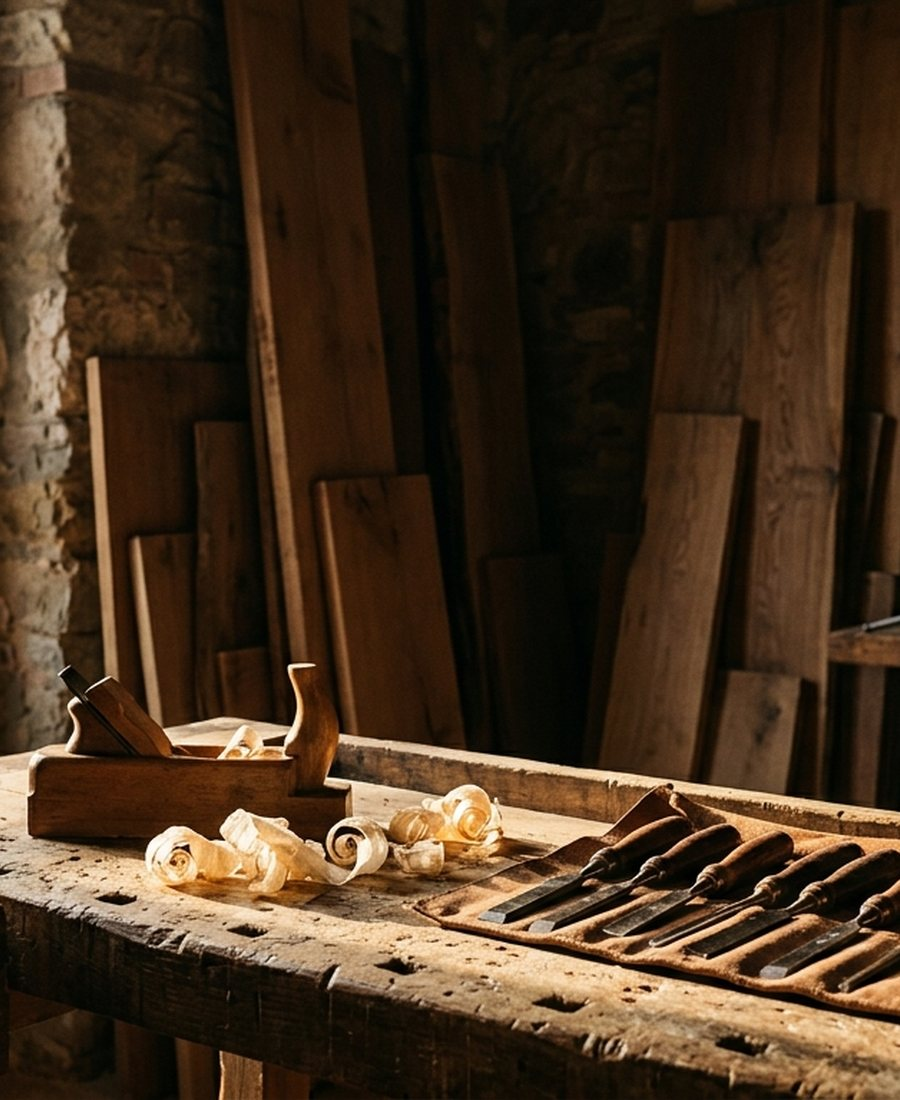
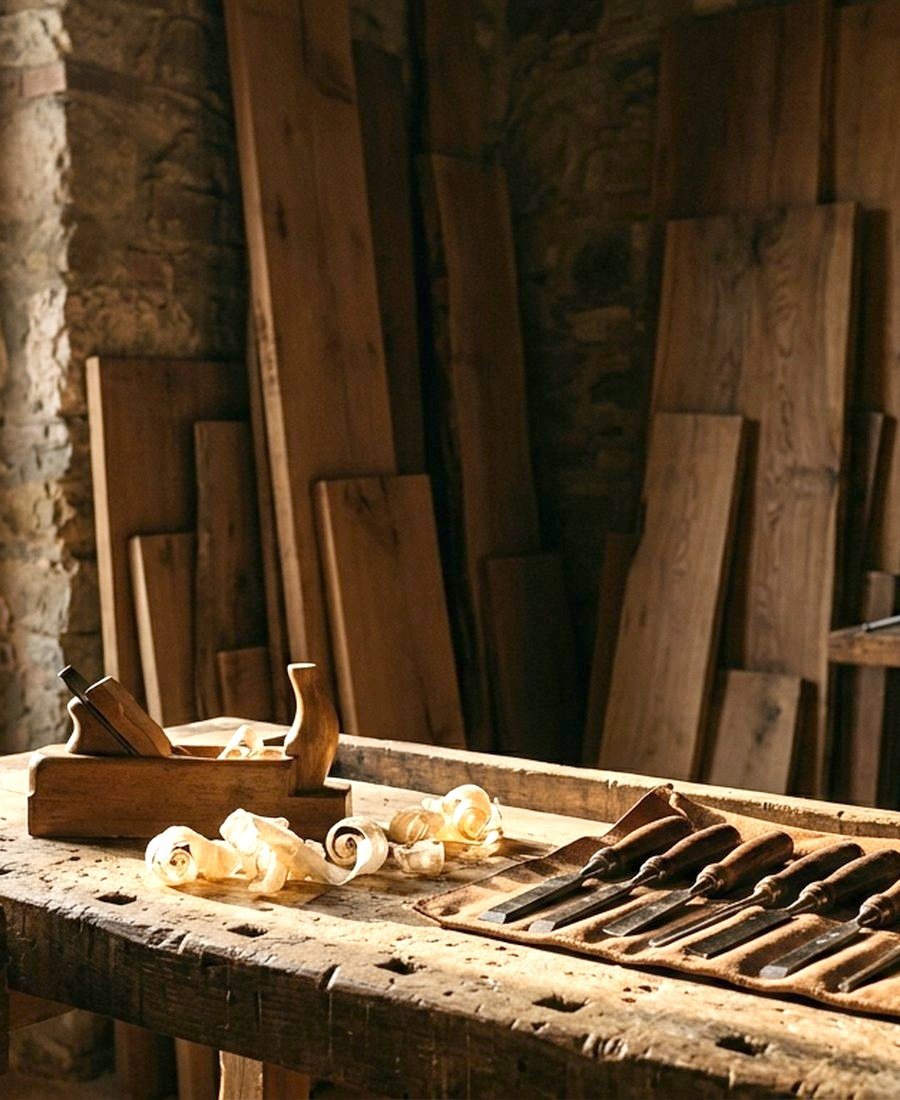
Improve mobile hero brightness, Chi Siamo readability, navfooterpill, and Home slider

diff --git a/src/app/page.tsx b/src/app/page.tsx
@@ -52,9 +52,9 @@ export default function Home() {
 
   const featuredProjects: FeaturedProjectSlide[] = [
     {
-      imageUrl: "/images/cucina.jpg",
-      description: "Arredi su Misura",
-      fitMode: "mat",
+      imageUrl: "/gallery/arredo_mave.7.jpg",
+      description: "Tavolo in Rovere su Misura",
+      fitMode: "cover",
     },
     {
       imageUrl: "/images/bagno.jpeg",
@@ -77,9 +77,9 @@ export default function Home() {
       fitMode: "cover",
     },
     {
-      imageUrl: "/images/recenti.jpg",
-      description: "Mobile Angolare Design",
-      fitMode: "mat",
+      imageUrl: "/gallery/arredo_mave.13.jpg",
+      description: "Interni Nautici su Misura",
+      fitMode: "cover",
     },
   ];
 
@@ -137,7 +137,7 @@ export default function Home() {
     <div className="flex flex-col">
       {/* HERO SECTION BOXED */}
       <div className="max-w-6xl mx-auto w-full px-3 sm:px-5 pt-2">
-        <section className="relative w-full h-[54vh] sm:h-[58vh] md:h-[60vh] min-h-[410px] max-h-[540px] overflow-hidden bg-zinc-950 rounded-[2rem] md:rounded-[2.5rem] shadow-2xl flex items-center justify-center">
+        <section className="relative w-full h-[52vh] sm:h-[58vh] md:h-[60vh] min-h-[390px] max-h-[540px] overflow-hidden bg-zinc-950 rounded-[2rem] md:rounded-[2.5rem] shadow-2xl flex items-center justify-center py-8 sm:py-0">
           <ResponsiveHeroImage
             desktopSrc={heroDesktop}
             mobileSrc={heroMobile}
@@ -145,31 +145,31 @@ export default function Home() {
             className="object-cover object-center"
           />
 
-          <div className="absolute inset-0 bg-gradient-to-b from-black/25 via-black/30 to-black/40" />
+          <div className="absolute inset-0 bg-gradient-to-b from-black/20 via-black/26 to-black/38" />
           <div className="absolute inset-0 bg-[radial-gradient(ellipse_75%_65%_at_50%_50%,rgba(15,20,15,0.34)_0%,rgba(15,20,15,0.06)_72%,transparent_100%)]" />
 
-          <div className="relative z-10 flex flex-col items-center px-6 text-center text-white max-w-4xl mx-auto">
-            <p className="inline-flex items-center rounded-full bg-[#1a231a]/65 backdrop-blur-sm border border-white/15 px-4 py-1 text-xs sm:text-sm font-bold uppercase tracking-[0.22em] text-accent mb-4 shadow-sm">
+          <div className="relative z-10 flex flex-col items-center px-5 sm:px-6 text-center text-white max-w-4xl mx-auto">
+            <p className="inline-flex items-center rounded-full bg-[#1a231a]/65 backdrop-blur-sm border border-white/15 px-3.5 sm:px-4 py-1 text-[10px] sm:text-xs font-bold uppercase tracking-[0.16em] sm:tracking-[0.22em] text-accent mb-3 sm:mb-4 shadow-sm whitespace-nowrap">
               Terracina &bull; Falegnameria e Nautica
             </p>
 
-            <h1 className="font-headline text-3xl sm:text-5xl md:text-6xl leading-[1.1] drop-shadow-2xl">
-              Mave: Passione <br className="sm:hidden" /> e Maestria, <br />
+            <h1 className="font-headline text-[2rem] sm:text-5xl md:text-6xl leading-[1.08] drop-shadow-2xl">
+              Mave: Passione e Maestria, <br />
               <span className="text-accent italic font-light">
                 dal Legno al Mare.
               </span>
             </h1>
 
-            <p className="mt-4 md:mt-5 text-base sm:text-lg md:text-xl max-w-xl mx-auto text-white/95 font-light drop-shadow-md">
+            <p className="mt-3 sm:mt-5 text-[15px] sm:text-lg md:text-xl max-w-xl mx-auto text-white/95 font-light leading-snug drop-shadow-md">
               Soluzioni artigianali su misura per la tua casa e la tua
               imbarcazione.
             </p>
 
-            <div className="mt-6 md:mt-8 flex flex-col sm:flex-row gap-3.5 justify-center items-center w-full sm:w-auto">
+            <div className="mt-5 sm:mt-8 flex flex-wrap gap-2.5 sm:gap-3.5 justify-center items-center w-full sm:w-auto">
               <Button
                 asChild
                 size="lg"
-                className="w-full max-w-[260px] sm:w-auto bg-accent text-[#1a231a] hover:bg-accent/90 font-bold py-5 px-7 text-base rounded-full transition-all duration-300 shadow-xl hover:scale-105 active:scale-95"
+                className="bg-accent text-[#1a231a] hover:bg-accent/90 font-bold py-3 sm:py-5 h-auto px-5 sm:px-7 text-sm sm:text-base rounded-full transition-all duration-300 shadow-xl hover:scale-105 active:scale-95"
               >
                 <Link href="/contatti">Preventivo Gratuito</Link>
               </Button>
@@ -178,7 +178,7 @@ export default function Home() {
                 asChild
                 size="lg"
                 variant="outline"
-                className="w-full max-w-[260px] sm:w-auto bg-black/35 backdrop-blur-md border-2 border-white/60 text-white font-semibold py-5 px-7 text-base rounded-full transition-all duration-300 shadow-lg hover:bg-white hover:text-zinc-950 hover:border-white"
+                className="bg-black/35 backdrop-blur-md border-2 border-white/60 text-white font-semibold py-3 sm:py-5 h-auto px-5 sm:px-7 text-sm sm:text-base rounded-full transition-all duration-300 shadow-lg hover:bg-white hover:text-zinc-950 hover:border-white"
               >
                 <Link href="#servizi">I nostri servizi</Link>
               </Button>

diff --git a/src/components/layout/mobile-nav-pill.tsx b/src/components/layout/mobile-nav-pill.tsx
@@ -30,9 +30,9 @@ export function MobileNavPill() {
   return (
     <nav
       aria-label="Barra di navigazione rapida mobile"
-      className="lg:hidden fixed inset-x-3 bottom-[max(0.5rem,env(safe-area-inset-bottom))] z-50 pointer-events-none"
+      className="lg:hidden fixed inset-x-3 bottom-[max(0.25rem,env(safe-area-inset-bottom))] z-50 pointer-events-none"
     >
-      <ul className="pointer-events-auto grid grid-cols-5 gap-1 max-w-md mx-auto rounded-full bg-[#242c24]/95 border border-white/15 shadow-2xl backdrop-blur-md px-1.5 py-1">
+      <ul className="pointer-events-auto grid grid-cols-5 gap-1 max-w-md mx-auto rounded-full bg-[#242c24]/95 border border-white/15 shadow-2xl backdrop-blur-md px-1.5 py-1.5">
         {MOBILE_PILL_ITEMS.map((item) => {
           const active = isMobilePillActive(pathname, item.href);
           const Icon = item.icon;
@@ -42,13 +42,13 @@ export function MobileNavPill() {
                 href={item.href}
                 aria-current={active ? "page" : undefined}
                 className={cn(
-                  "flex flex-col items-center justify-center gap-0.5 rounded-full py-1 px-1 text-[10px] leading-tight font-bold tracking-wide transition-all duration-200 touch-manipulation focus-visible:outline-none focus-visible:ring-2 focus-visible:ring-accent",
+                  "flex flex-col items-center justify-center gap-1 rounded-full py-1.5 px-1 text-[10px] leading-tight font-bold tracking-wide transition-all duration-200 touch-manipulation focus-visible:outline-none focus-visible:ring-2 focus-visible:ring-accent",
                   active
                     ? "bg-white/[0.14] text-accent ring-1 ring-accent/40 shadow-sm"
                     : "text-white/75 hover:text-white hover:bg-white/10",
                 )}
               >
-                <Icon className="h-[16px] w-[16px] shrink-0" aria-hidden="true" />
+                <Icon className="h-[18px] w-[18px] shrink-0" aria-hidden="true" />
                 <span className="truncate max-w-full leading-none">{item.label}</span>
               </Link>
             </li>

diff --git a/src/app/chi-siamo/page.tsx b/src/app/chi-siamo/page.tsx
@@ -67,8 +67,8 @@ export default function ChiSiamoPage() {
             className="object-cover object-center"
           />
 
-          <div className="absolute inset-0 bg-gradient-to-b from-black/20 via-black/25 to-black/35" />
-          <div className="absolute inset-0 bg-[radial-gradient(ellipse_75%_65%_at_50%_50%,rgba(15,20,15,0.28)_0%,transparent_75%)]" />
+          <div className="absolute inset-0 bg-gradient-to-b from-black/15 via-black/38 to-black/80 md:from-black/18 md:via-black/35 md:to-black/72" />
+          <div className="absolute inset-0 bg-[radial-gradient(ellipse_92%_70%_at_50%_62%,rgba(15,20,15,0.58)_0%,rgba(15,20,15,0.18)_72%,transparent_100%)]" />
 
           <div className="relative z-10 max-w-4xl mx-auto px-6">
             <h1 className="font-headline text-5xl md:text-7xl text-white leading-tight drop-shadow-2xl">
@@ -78,10 +78,10 @@ export default function ChiSiamoPage() {
 
             <div className="h-1.5 w-24 bg-accent mx-auto mt-5 rounded-full shadow-lg" />
 
-            <p className="mt-5 text-xl md:text-3xl text-white font-medium italic drop-shadow-md">
+            <p className="mt-5 text-xl md:text-3xl text-white font-medium italic drop-shadow-[0_2px_10px_rgba(0,0,0,0.75)]">
               &ldquo;Il mio lavoro è la mia passione.&rdquo;
             </p>
-            <p className="mt-2.5 text-base md:text-xl text-white/90 max-w-2xl mx-auto leading-relaxed font-light">
+            <p className="mt-2.5 text-base md:text-xl text-white max-w-2xl mx-auto leading-relaxed font-normal drop-shadow-[0_2px_8px_rgba(0,0,0,0.85)]">
               Ogni creazione di Mave Arredamenti porta con sé il valore del
               tempo, della ricerca dei materiali e della cura manuale.
             </p>

diff --git a/src/app/contatti/page.tsx b/src/app/contatti/page.tsx
@@ -49,8 +49,8 @@ export default function ContattiPage() {
             className="object-cover object-center"
           />
 
-          <div className="absolute inset-0 bg-gradient-to-b from-black/28 via-black/38 to-black/48" />
-          <div className="absolute inset-0 bg-[radial-gradient(ellipse_80%_75%_at_50%_50%,rgba(15,20,15,0.48)_0%,rgba(15,20,15,0.14)_75%,transparent_100%)]" />
+          <div className="absolute inset-0 bg-gradient-to-b from-black/25 via-black/38 to-black/45 md:from-black/28 md:via-black/38 md:to-black/48" />
+          <div className="absolute inset-0 bg-[radial-gradient(ellipse_88%_78%_at_50%_50%,rgba(15,20,15,0.44)_0%,rgba(15,20,15,0.12)_75%,transparent_100%)] md:bg-[radial-gradient(ellipse_80%_75%_at_50%_50%,rgba(15,20,15,0.48)_0%,rgba(15,20,15,0.14)_75%,transparent_100%)]" />
 
           <div className="relative z-10 flex flex-col items-center justify-center px-6 text-center max-w-4xl mx-auto">
             <h1 className="font-headline text-4xl md:text-6xl lg:text-7xl text-white leading-tight italic drop-shadow-2xl">

diff --git a/src/app/servizi/page.tsx b/src/app/servizi/page.tsx
@@ -88,8 +88,8 @@ export default function ServiziPage() {
             className="object-cover object-center"
           />
 
-          <div className="absolute inset-0 bg-gradient-to-b from-black/25 via-black/35 to-black/45" />
-          <div className="absolute inset-0 bg-[radial-gradient(ellipse_80%_70%_at_50%_50%,rgba(15,20,15,0.34)_0%,rgba(15,20,15,0.06)_75%,transparent_100%)]" />
+          <div className="absolute inset-0 bg-gradient-to-b from-black/25 via-black/48 to-black/45 md:from-black/25 md:via-black/35 md:to-black/45" />
+          <div className="absolute inset-0 bg-[radial-gradient(ellipse_92%_70%_at_50%_48%,rgba(15,20,15,0.44)_0%,rgba(15,20,15,0.12)_75%,transparent_100%)] md:bg-[radial-gradient(ellipse_80%_70%_at_50%_50%,rgba(15,20,15,0.34)_0%,rgba(15,20,15,0.06)_75%,transparent_100%)]" />
 
           <div className="relative z-10 px-6 max-w-4xl mx-auto">
             <h1 className="font-headline text-5xl md:text-7xl text-white leading-tight drop-shadow-xl">

diff --git a/src/app/galleria/page.tsx b/src/app/galleria/page.tsx
@@ -49,8 +49,8 @@ export default function GalleriaPage() {
             className="object-cover object-center"
           />
 
-          <div className="absolute inset-0 bg-gradient-to-b from-black/25 via-black/35 to-black/45" />
-          <div className="absolute inset-0 bg-[radial-gradient(ellipse_75%_65%_at_50%_50%,rgba(15,20,15,0.34)_0%,rgba(15,20,15,0.06)_75%,transparent_100%)]" />
+          <div className="absolute inset-0 bg-gradient-to-b from-black/22 via-black/35 to-black/42 md:from-black/25 md:via-black/35 md:to-black/45" />
+          <div className="absolute inset-0 bg-[radial-gradient(ellipse_85%_70%_at_50%_50%,rgba(15,20,15,0.42)_0%,rgba(15,20,15,0.10)_75%,transparent_100%)]" />
 
           <div className="relative z-10 px-6 max-w-4xl mx-auto">
             <h1 className="font-headline text-5xl md:text-7xl text-white leading-tight drop-shadow-2xl">

diff --git a/src/app/servizi/[slug]/page.tsx b/src/app/servizi/[slug]/page.tsx
@@ -142,10 +142,10 @@ export default async function ServiceDetailPage({
               fill
               priority
               sizes="(max-width: 1152px) 100vw, 1152px"
-              className="object-cover opacity-55"
+              className="object-cover opacity-65"
             />
           )}
-          <div className="absolute inset-0 bg-gradient-to-b from-[#1e261e]/45 via-[#1e261e]/50 to-[#1e261e]/65" />
+          <div className="absolute inset-0 bg-gradient-to-b from-[#1e261e]/35 via-[#1e261e]/40 to-[#1e261e]/55" />
 
           <div className="relative z-10 px-6 max-w-4xl mx-auto">
             <nav

diff --git a/src/components/whatsapp-button.tsx b/src/components/whatsapp-button.tsx
@@ -49,7 +49,7 @@ export default function WhatsAppButton() {
   }
 
   return (
-    <div className="fixed bottom-[calc(4.25rem+env(safe-area-inset-bottom))] right-3.5 lg:bottom-5 lg:right-5 z-50 flex flex-col items-end">
+    <div className="fixed bottom-[calc(4.65rem+env(safe-area-inset-bottom))] right-3.5 lg:bottom-5 lg:right-5 z-50 flex flex-col items-end">
       {isOpen && (
         <div
           role="dialog"
